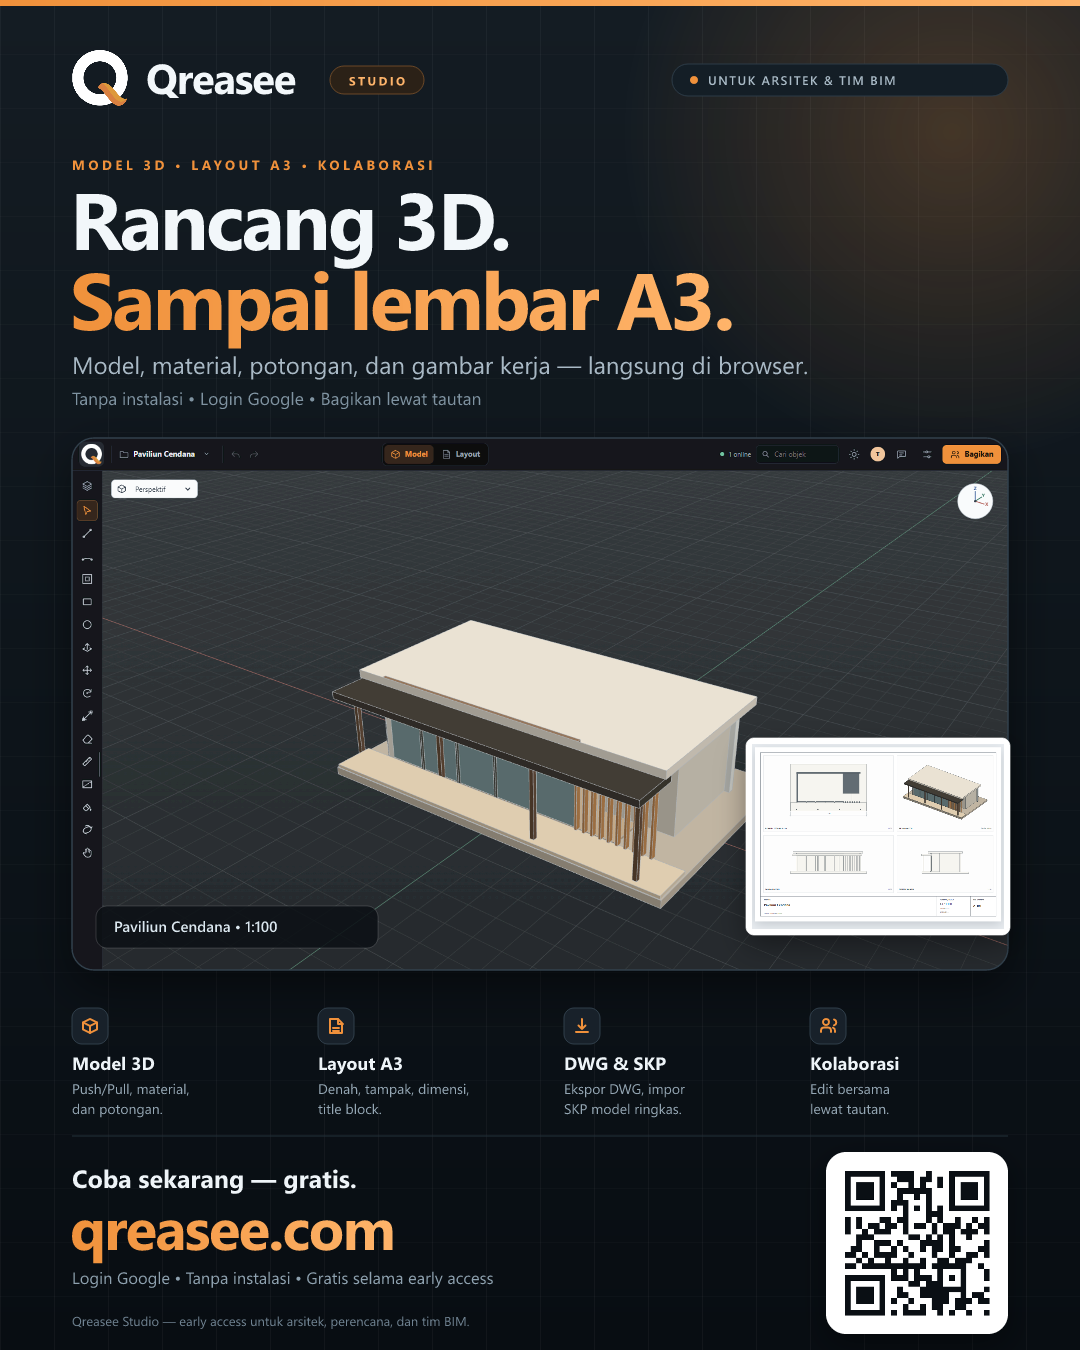
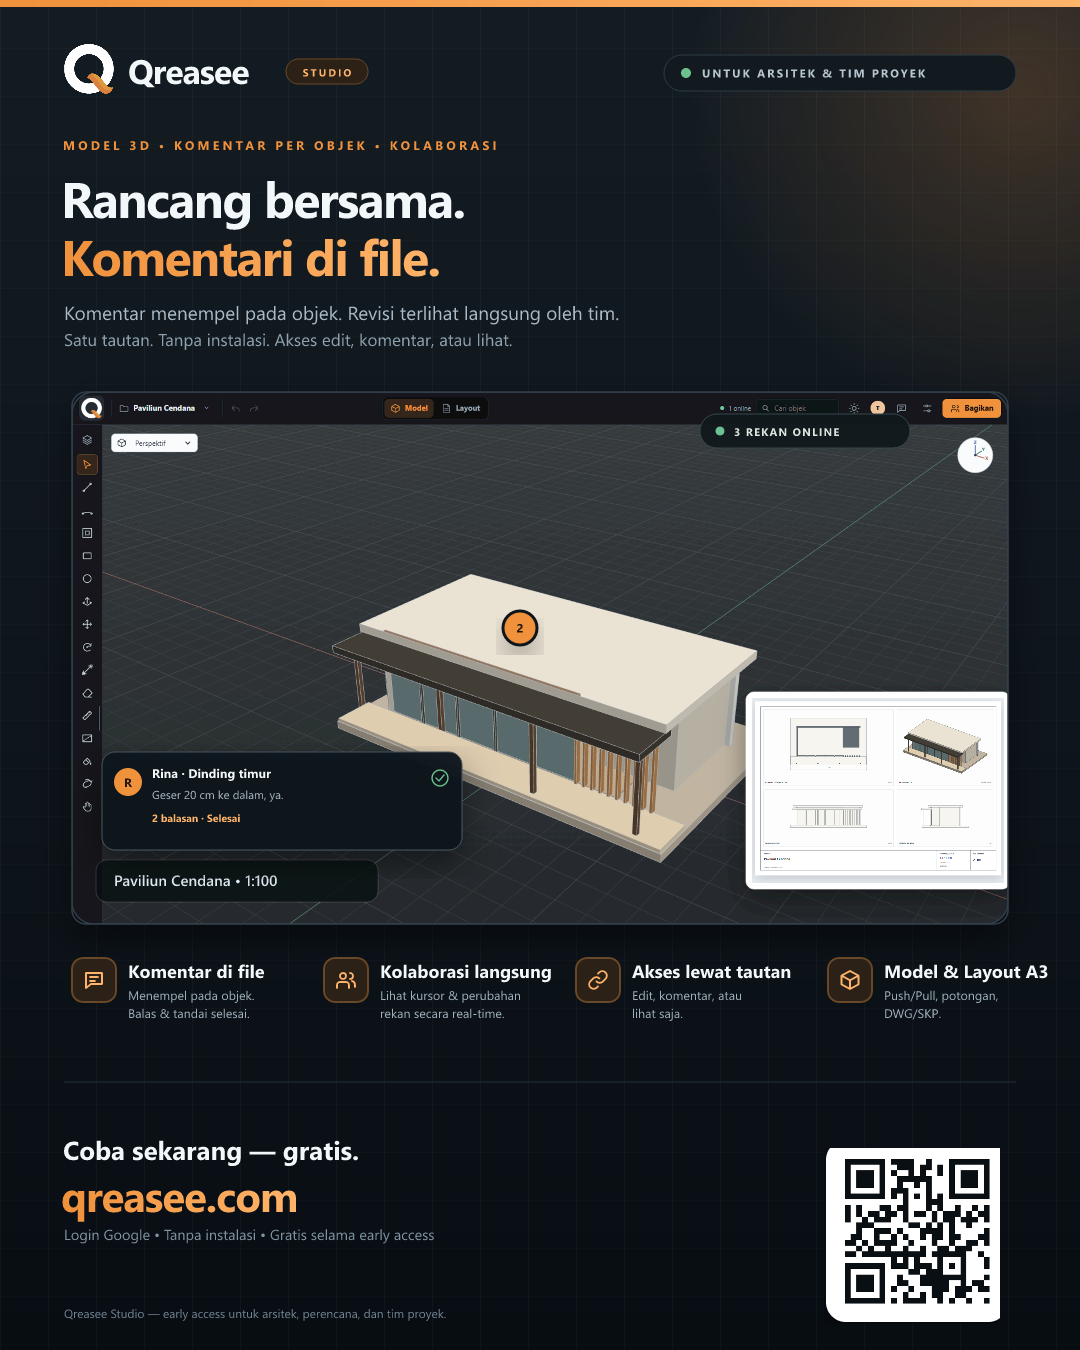
Lead with collaboration and in-file comments
Rewrite the landing headline, supporting copy, SEO metadata, social preview, and WhatsApp poster around comment-per-object collaboration and link-based access. Adds landing highlight chips and refreshes the footer to match.

Changed region(s): [[0.0611, 0.4044, 0.9778, 0.9956], [0.0611, 0.0311, 0.9472, 0.4356], [0.6417, 0.0311, 0.9472, 0.0933]]

diff --git a/web/index.html b/web/index.html
@@ -5,8 +5,8 @@
   <meta name="viewport" content="width=device-width, initial-scale=1">
   <meta name="referrer" content="no-referrer">
   <meta http-equiv="Content-Security-Policy" content="default-src 'self'; script-src 'self'; style-src 'self' 'unsafe-inline'; img-src 'self' data: blob: https://*.googleusercontent.com https://*.ggpht.com; connect-src 'self' https://*.supabase.co; object-src 'none'; base-uri 'none'; form-action 'self';">
-  <title>Qreasee — Rancang 3D sampai lembar A3</title>
-  <meta name="description" content="Model 3D, material, potongan, dan layout A3 langsung di browser. Tanpa instalasi, login Google, dan kolaborasi lewat tautan. Coba gratis di qreasee.com.">
+  <title>Qreasee — Rancang bersama, komentari di file</title>
+  <meta name="description" content="Model 3D dengan komentar per objek dan kolaborasi real-time. Bagikan satu tautan, atur akses edit/komentar/lihat, dan revisi tanpa tercecer di chat. Coba gratis di qreasee.com.">
   <meta name="theme-color" content="#0b1015">
   <link rel="icon" href="./favicon.ico" sizes="any">
   <link rel="icon" type="image/png" sizes="32x32" href="./favicon-32.png">
@@ -14,20 +14,20 @@
   <link rel="apple-touch-icon" sizes="180x180" href="./apple-touch-icon.png">
   <meta property="og:type" content="website">
   <meta property="og:site_name" content="Qreasee">
-  <meta property="og:title" content="Qreasee — Rancang 3D sampai lembar A3">
-  <meta property="og:description" content="Model 3D, material, potongan, dan layout A3 langsung di browser. Tanpa instalasi, login Google, dan kolaborasi lewat tautan. Coba gratis di qreasee.com.">
+  <meta property="og:title" content="Qreasee — Rancang bersama, komentari di file">
+  <meta property="og:description" content="Komentar menempel pada objek, perubahan terlihat langsung, dan akses diatur lewat satu tautan. Model 3D + layout A3 di browser, tanpa instalasi.">
   <meta property="og:url" content="https://qreasee.com/">
-  <meta property="og:image" content="https://qreasee.com/og-image.png">
-  <meta property="og:image:secure_url" content="https://qreasee.com/og-image.png">
+  <meta property="og:image" content="https://qreasee.com/og-image.png?v=2">
+  <meta property="og:image:secure_url" content="https://qreasee.com/og-image.png?v=2">
   <meta property="og:image:type" content="image/png">
   <meta property="og:image:width" content="1200">
   <meta property="og:image:height" content="630">
-  <meta property="og:image:alt" content="Qreasee Studio menampilkan model 3D Paviliun Cendana dan lembar Layout A3.">
+  <meta property="og:image:alt" content="Qreasee Studio menampilkan model 3D dengan penanda komentar, kolaborasi tim, dan lembar Layout A3.">
   <meta property="og:locale" content="id_ID">
   <meta name="twitter:card" content="summary_large_image">
-  <meta name="twitter:title" content="Qreasee — Rancang 3D sampai lembar A3">
-  <meta name="twitter:description" content="Model 3D, material, potongan, dan layout A3 langsung di browser. Tanpa instalasi, login Google, dan kolaborasi lewat tautan.">
-  <meta name="twitter:image" content="https://qreasee.com/og-image.png">
+  <meta name="twitter:title" content="Qreasee — Rancang bersama, komentari di file">
+  <meta name="twitter:description" content="Komentar per objek, kolaborasi real-time, dan akses lewat tautan. Model 3D + layout A3 di browser, tanpa instalasi.">
+  <meta name="twitter:image" content="https://qreasee.com/og-image.png?v=2">
   <link rel="stylesheet" href="/studio.css">
   <script src="/line-geometry.js" defer></script>
   <script src="/studio.js" defer></script>
@@ -36,7 +36,7 @@
   <section id="project-home" class="project-home" aria-labelledby="home-title">
     <header class="home-header">
       <div class="home-brand" aria-label="Qreasee"><img class="dark-logo" src="./qreasee-logo.png" alt="Qreasee"><img class="light-logo" src="./qreasee-logo-black.png" alt="" aria-hidden="true"></div>
-      <span class="home-header-label">Ruang kerja desain</span>
+      <span class="home-header-label">Ruang kerja kolaboratif</span>
       <div class="home-header-actions">
         <button id="home-theme" class="home-theme" type="button" aria-label="Ganti tema">◐ <span>Tampilan</span></button>
         <div id="home-account" class="home-account" hidden>
@@ -56,7 +56,7 @@
     <div class="home-content">
       <div class="home-layout">
         <div class="home-left">
-          <div class="home-intro"><p class="home-eyebrow">SELAMAT DATANG DI QREASEE</p><h1 id="home-title">Ruang untuk ide<br><em>menjadi nyata.</em></h1><p>Mulai model baru atau lanjutkan proyek yang sudah Anda kerjakan. Semua alat gambar dan kolaborasi ada di satu ruang kerja.</p></div>
+          <div class="home-intro"><p class="home-eyebrow">KOLABORASI &amp; KOMENTAR DI DALAM FILE</p><h1 id="home-title">Rancang bersama.<br><em>Komentari di file.</em></h1><p>Model 3D, komentar per objek, dan revisi dalam satu ruang kerja — bukan terpisah di chat. Bagikan satu tautan; tim bisa mengedit, berkomentar, atau melihat langsung dari browser.</p><ul class="home-highlights" aria-label="Keunggulan Qreasee"><li><span data-icon="comment" aria-hidden="true"></span>Komentar per objek</li><li><span data-icon="users" aria-hidden="true"></span>Kolaborasi real-time</li><li><span data-icon="link" aria-hidden="true"></span>Akses edit / komentar / lihat</li></ul></div>
           <div class="home-hero-actions">
             <button id="home-new" class="home-new" type="button"><span class="home-action-icon">＋</span><span><strong>Proyek baru</strong><small>Mulai dari kanvas kosong</small></span></button>
             <button id="home-example" class="home-example" type="button"><span class="home-action-icon">▧</span><span><strong>Buka contoh</strong><small>Jelajahi model awal Qreasee</small></span></button>
@@ -69,7 +69,7 @@
         </section>
       </div>
     </div>
-    <footer class="home-footer"><span>Qreasee · Model bersama, lebih mudah.</span><span>Model 3D &amp; gambar teknik</span></footer>
+    <footer class="home-footer"><span>Qreasee · Rancang bersama, komentari di file.</span><span>Komentar per objek · Kolaborasi real-time</span></footer>
   </section>
   <header class="app-header">
     <div class="identity" aria-label="Qreasee">

diff --git a/web/studio.css b/web/studio.css
@@ -23,9 +23,13 @@ body.landing>.app-header,body.landing>.workspace,body.landing>#revision{display:
 .home-layout{display:grid;grid-template-columns:minmax(320px,.82fr) minmax(0,1.18fr);gap:clamp(38px,4.6vw,72px);align-items:start}
 .home-left{min-width:0}
 .home-intro{max-width:750px}.home-eyebrow{font-size:12px!important;font-weight:750;letter-spacing:.19em;color:#f19b4f!important;margin:0 0 17px!important}
-.home-intro h1{font-size:clamp(44px,4.8vw,72px);line-height:1.04;letter-spacing:-.065em;font-weight:670;margin:0 0 25px}.home-intro h1 em{color:#ef9b50;font-style:normal}
+.home-intro h1{font-size:clamp(44px,4vw,62px);line-height:1.06;letter-spacing:-.055em;font-weight:670;margin:0 0 25px}.home-intro h1 em{color:#ef9b50;font-style:normal}
 .home-intro>p:last-child{font-size:17px;line-height:1.65;color:#b7c1be;max-width:560px;margin:0}
-.home-hero-actions{display:grid;grid-template-columns:1fr;gap:12px;max-width:420px;margin-top:38px}
+.home-highlights{display:flex;flex-wrap:wrap;gap:8px;margin:22px 0 0;padding:0;list-style:none}
+.home-highlights li{display:flex;align-items:center;gap:7px;padding:7px 11px;border:1px solid #ffffff2b;border-radius:999px;background:#ffffff0a;color:#d6dfdb;font-size:12px;line-height:1.2}
+.home-highlights [data-icon]{color:#f19b4f}
+.home-highlights svg{width:15px;height:15px}
+.home-hero-actions{display:grid;grid-template-columns:1fr;gap:12px;max-width:420px;margin-top:28px}
 .home-hero-actions button{height:88px;justify-content:flex-start;text-align:left;gap:17px;padding:16px 18px;border-radius:13px;border:1px solid #ffffff36;background:#ffffff0a;white-space:normal;transition:transform .15s,background .15s,border-color .15s}
 .home-hero-actions button:hover{transform:translateY(-2px);background:#ffffff16;border-color:#ef9b50}
 .home-hero-actions .home-new{background:#ee9849;border-color:#ee9849;color:#211a14}.home-hero-actions .home-new:hover{background:#ffab60}
@@ -47,11 +51,11 @@ body.landing>.app-header,body.landing>.workspace,body.landing>#revision{display:
 body[data-theme=light].landing{background:#f5f5f2}.landing[data-theme=light] .project-home{color:#202c2c;background:radial-gradient(circle at 82% 16%,#dce6df 0,transparent 35%),linear-gradient(148deg,#fafaf7,#eeeae3)}
 .landing[data-theme=light] .home-header,.landing[data-theme=light] .home-footer{border-color:#253a3128}.landing[data-theme=light] .home-header-label,.landing[data-theme=light] .home-intro>p:last-child,.landing[data-theme=light] .home-section-head>span,.landing[data-theme=light] .home-footer{color:#596965}
 .landing[data-theme=light] .home-brand .dark-logo{display:none}.landing[data-theme=light] .home-brand .light-logo{display:block}.landing[data-theme=light] .home-theme{color:#354340;border-color:#243a3538}
-.landing[data-theme=light] .home-account-button{background:#ffffffbd;border-color:#243a3530}.landing[data-theme=light] .home-account-button:hover{background:#fff;border-color:#243a3555}.landing[data-theme=light] .home-account-name{color:#263330}.landing[data-theme=light] .home-account-menu{background:#fff;border-color:#243a3526;box-shadow:0 18px 40px #1f362f25}.landing[data-theme=light] .home-account-menu strong{color:#263330}.landing[data-theme=light] .home-account-menu button{color:#a35a1c;border-color:#243a3526}
+.landing[data-theme=light] .home-highlights li{background:#ffffffb8;border-color:#243a3526;color:#3b4a45}.landing[data-theme=light] .home-account-button{background:#ffffffbd;border-color:#243a3530}.landing[data-theme=light] .home-account-button:hover{background:#fff;border-color:#243a3555}.landing[data-theme=light] .home-account-name{color:#263330}.landing[data-theme=light] .home-account-menu{background:#fff;border-color:#243a3526;box-shadow:0 18px 40px #1f362f25}.landing[data-theme=light] .home-account-menu strong{color:#263330}.landing[data-theme=light] .home-account-menu button{color:#a35a1c;border-color:#243a3526}
 .landing[data-theme=light] .home-hero-actions .home-example{background:#ffffffb8;color:#243330;border-color:#33463d42}.landing[data-theme=light] .home-project-card{background:#fff;color:#263330;border-color:#364b4038;box-shadow:0 8px 24px #1f362f10}.landing[data-theme=light] .home-project-info small{color:#66746f}.landing[data-theme=light] .home-empty{border-color:#33463d66;color:#5e6d67}.landing[data-theme=light] .home-empty strong{color:#263330}
 @media(max-width:1080px){.home-layout{grid-template-columns:1fr;gap:46px}.home-intro{max-width:720px}.home-hero-actions{grid-template-columns:repeat(2,minmax(0,1fr));max-width:720px}.home-projects{grid-template-columns:repeat(3,minmax(0,1fr))}}
 @media(max-width:760px){.home-header{height:72px;gap:18px}.home-header-label{display:none}.home-content{padding-top:54px}.home-hero-actions{grid-template-columns:1fr;max-width:520px}.home-projects{grid-template-columns:repeat(2,minmax(0,1fr))}.home-footer span:last-child{display:none}}
-@media(max-width:520px){.home-theme span{display:none}.home-account-name{display:none}.home-account-button{padding:4px}.home-content{width:calc(100% - 36px);padding-top:44px}.home-intro h1{font-size:44px}.home-intro>p:last-child{font-size:15px}.home-projects{grid-template-columns:1fr}.home-section-head{align-items:start;flex-direction:column;gap:3px}}
+@media(max-width:520px){.home-theme span{display:none}.home-account-name{display:none}.home-account-button{padding:4px}.home-content{width:calc(100% - 36px);padding-top:44px}.home-intro h1{font-size:44px}.home-intro>p:last-child{font-size:15px}.home-highlights li{font-size:11.5px;padding:6px 9px}.home-projects{grid-template-columns:1fr}.home-section-head{align-items:start;flex-direction:column;gap:3px}}
 *{box-sizing:border-box}
 [hidden]{display:none!important}
 body{margin:0;background:var(--bg);color:var(--text);height:100dvh;min-height:520px;display:grid;grid-template-rows:60px 52px minmax(0,1fr) 30px;overflow:hidden}

diff --git a/web/studio.js b/web/studio.js
@@ -49,7 +49,8 @@ const icons = {
   pan:'<path d="M8 13V6a1.5 1.5 0 0 1 3 0v5-7a1.5 1.5 0 0 1 3 0v7-5a1.5 1.5 0 0 1 3 0v6-3a1.5 1.5 0 0 1 3 0v6c0 4-2 6-6 6h-2a5 5 0 0 1-4-2l-4-5a1.6 1.6 0 0 1 2.5-2z"/>',
   download:'<path d="M12 3v12m-5-5 5 5 5-5M4 16v4h16v-4"/>',
   upload:'<path d="M12 17V5m-5 5 5-5 5 5M4 17v4h16v-4"/>',
-  pencil:'<path d="m4 20 4.5-1 11-11a2 2 0 0 0-3-3l-11 11L4 20zM14 7l3 3"/>'
+  pencil:'<path d="m4 20 4.5-1 11-11a2 2 0 0 0-3-3l-11 11L4 20zM14 7l3 3"/>',
+  link:'<path d="M10.5 13.5a4.5 4.5 0 0 0 6.4 0l2.6-2.6a4.5 4.5 0 0 0-6.4-6.4l-1.1 1.1"/><path d="M13.5 10.5a4.5 4.5 0 0 0-6.4 0l-2.6 2.6a4.5 4.5 0 0 0 6.4 6.4l1.1-1.1"/>'
 };
 function icon(element, name) {
   if (!Object.prototype.hasOwnProperty.call(icons,name)) return;

diff --git a/web/studio/bootstrap.js b/web/studio/bootstrap.js
@@ -49,7 +49,8 @@ const icons = {
   pan:'<path d="M8 13V6a1.5 1.5 0 0 1 3 0v5-7a1.5 1.5 0 0 1 3 0v7-5a1.5 1.5 0 0 1 3 0v6-3a1.5 1.5 0 0 1 3 0v6c0 4-2 6-6 6h-2a5 5 0 0 1-4-2l-4-5a1.6 1.6 0 0 1 2.5-2z"/>',
   download:'<path d="M12 3v12m-5-5 5 5 5-5M4 16v4h16v-4"/>',
   upload:'<path d="M12 17V5m-5 5 5-5 5 5M4 17v4h16v-4"/>',
-  pencil:'<path d="m4 20 4.5-1 11-11a2 2 0 0 0-3-3l-11 11L4 20zM14 7l3 3"/>'
+  pencil:'<path d="m4 20 4.5-1 11-11a2 2 0 0 0-3-3l-11 11L4 20zM14 7l3 3"/>',
+  link:'<path d="M10.5 13.5a4.5 4.5 0 0 0 6.4 0l2.6-2.6a4.5 4.5 0 0 0-6.4-6.4l-1.1 1.1"/><path d="M13.5 10.5a4.5 4.5 0 0 0-6.4 0l-2.6 2.6a4.5 4.5 0 0 0 6.4 6.4l1.1-1.1"/>'
 };
 function icon(element, name) {
   if (!Object.prototype.hasOwnProperty.call(icons,name)) return;

diff --git a/marketing/qreasee-caption.md b/marketing/qreasee-caption.md
@@ -12,14 +12,17 @@ Login: Google. Gratis selama early access.
 
 Halo rekan-rekan,
 
-Saya sedang mengembangkan *Qreasee Studio* — alat desain 3D yang berjalan langsung di browser, tanpa instalasi.
+Saya sedang mengembangkan *Qreasee Studio* — ruang desain 3D di browser yang menaruh komentar dan revisi langsung di dalam file. Tanpa instalasi.
 
-Alurnya dibuat sederhana:
+Yang paling saya tonjolkan:
 
+- Komentar menempel pada objek, bisa dibalas dan ditandai selesai
+- Kolaborasi real-time lewat satu tautan: rekan bisa mengedit, berkomentar, atau hanya melihat
 - Model 3D, Push/Pull, material, dan bidang potong
 - Lembar Layout A3: denah, tampak, aksonometri, dimensi, dan title block
 - Ekspor DWG dan impor SKP
-- Kolaborasi lewat satu tautan, lengkap dengan komentar
+
+Jadi keputusan desain tidak tercecer di grup chat atau di luar file. Komentar tetap menempel pada objek yang dimaksud, dan status selesainya terlihat oleh tim.
 
 Cocok untuk studi massa, desain konsep, dan presentasi klien.
 Coba gratis selama early access di *https://qreasee.com/* (login Google).
@@ -32,14 +35,18 @@ Saya sangat terbuka dengan masukan, terutama soal alur gambar dan kebutuhan kerj
 
 Halo teman-teman Arsitektur ITB 👋
 
-Saya sedang mengembangkan *Qreasee Studio*, alat desain 3D berbasis browser. Tidak perlu instalasi — cukup buka tautan, login Google, dan langsung menggambar.
+Saya sedang mengembangkan *Qreasee Studio*, ruang desain 3D berbasis browser. Tidak perlu instalasi — cukup buka tautan, login Google, dan langsung menggambar.
 
-Yang sudah bisa dipakai:
+Yang saya tekankan di Qreasee:
 
+• Komentar per objek, bisa dibalas dan ditandai selesai
+• Kolaborasi real-time lewat satu tautan
+• Akses edit, komentar, atau lihat saja
 • Model 3D, Push/Pull, material, dan bidang potong
 • Lembar Layout A3: denah, tampak, aksonometri, dimensi, title block
 • Ekspor DWG dan impor SKP
-• Kolaborasi dan komentar lewat tautan
+
+Jadi revisi tidak perlu tercecer di chat: komentarnya menempel pada objeknya.
 
 Cocok untuk studi massa, konsep desain, dan presentasi ke klien.
 Silakan coba di *https://qreasee.com/* — gratis selama early access.
@@ -52,15 +59,18 @@ Saya sangat terbuka dengan masukan dari teman-teman, terutama soal alur gambar d
 
 Halo rekan-rekan arsitek,
 
-Perkenalkan *Qreasee Studio* — workspace desain 3D berbasis browser untuk mempercepat alur dari ide ke gambar.
+Perkenalkan *Qreasee Studio* — workspace desain 3D berbasis browser yang menaruh komentar dan revisi langsung di dalam file.
 
 Yang bisa dilakukan:
 
+▸ Komentar langsung di file, menempel pada objek
+▸ Balas komentar dan tandai selesai agar revisi tidak hilang
+▸ Kolaborasi real-time lewat satu tautan
+▸ Akses edit, komentar, atau lihat saja
 ▸ Model 3D dan Push/Pull untuk studi massa
 ▸ Material dan bidang potong
 ▸ Lembar A3: denah, tampak, aksonometri, dimensi, dan title block
 ▸ Ekspor DWG, impor SKP
-▸ Kolaborasi dan komentar lewat satu tautan
 
 Tanpa instalasi — cukup browser dan akun Google.
 Coba gratis selama early access di *https://qreasee.com/*
@@ -77,10 +87,14 @@ Saya mengembangkan *Qreasee Studio*, alat bantu desain konsep 3D di browser. Pos
 
 Fitur saat ini:
 
+• Komentar per objek, balasan, dan status selesai
+• Kolaborasi real-time lewat satu tautan
+• Akses edit, komentar, atau lihat saja
 • Model 3D, Push/Pull, material, dan bidang potong
 • Layout A3 dengan title block
 • Ekspor DWG dan impor SKP
-• Kolaborasi lewat tautan dan komentar
+
+Komentar menempel pada objek, jadi keputusan desain tetap berada di file — bukan tercecer di chat.
 
 Coba di *https://qreasee.com/* (login Google, gratis selama early access).
 
@@ -90,9 +104,9 @@ Masukan untuk roadmap — termasuk kebutuhan pertukaran data dan koordinasi deng
 
 ## Varian 4 — Status singkat (untuk WhatsApp Status)
 
-Rancang 3D langsung di browser — sampai lembar A3.
+Rancang bersama. Komentari langsung di file.
 
-Qreasee Studio: model, material, potongan, layout, DWG/SKP.
+Qreasee Studio: komentar per objek, kolaborasi real-time, akses lewat tautan — plus model 3D dan layout A3.
 Coba gratis: https://qreasee.com/
 
 ---
